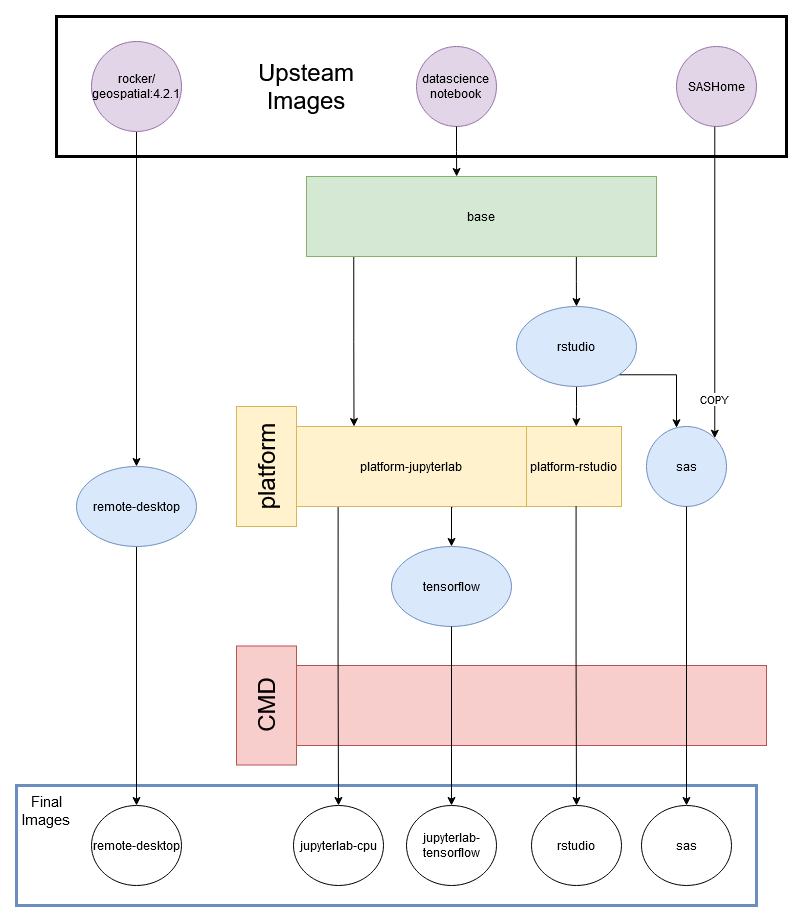
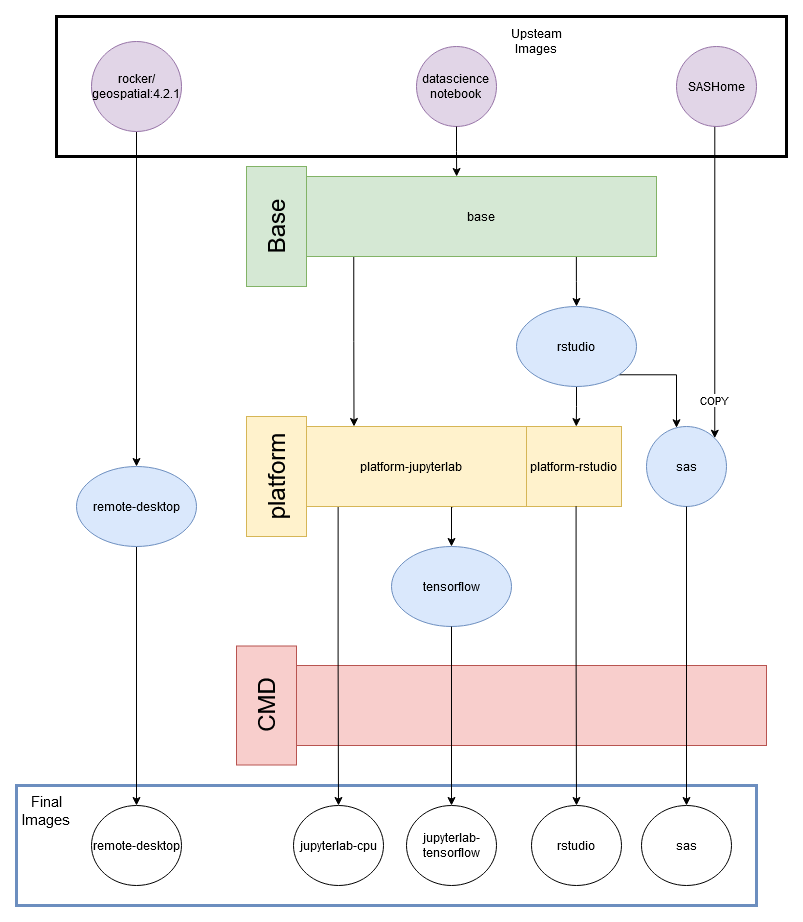
Staged builds 5 pr comments (#736)
* fix typo

* test nightly as a matrix

* adds checking the SHA to trivy

* Feat: add matrix for docker-nightly

* feat: updated diagrams

It was requested to make base match platform and cmd

* fix: trivy version

new curls need the v removed

* update nightly

* remove pytorch image folder

* test nightly as a matrix

* Feat: add matrix for docker-nightly

* nightly doesn't use dev

* isn't an separate image anymore

* update readme for matrix

diff --git a/README.md b/README.md
@@ -15,7 +15,7 @@ Container images to be used with kubeflow on the AAW platform for Data Science &
 - [General Development Workflow](#general-development-workflow)
   - [Running an AAW Container Locally](#running-an-aaw-container-locally)
   - [Testing Locally](#testing-locally)
-  - [Testing On-Platform testing](#testing-on-platform-testing)
+  - [Testing On-Platform](#testing-on-platform)
   - [Overview of images](#overview-of-images)
   - [Adding new software](#adding-new-software)
   - [Adding new Images](#adding-new-images)
@@ -154,7 +154,7 @@ jupyter/datascience-notebook                       9ed3b8de5de1   9a0c8d86de1a  
    - manually by `docker run -it -p 8888:8888 REPO/IMAGENAME:TAG`,
      then opening it in [http://localhost:8888](http://localhost:8888)
 
-### Testing On-Platform testing
+### Testing On-Platform
 
 GitHub Actions CI is enabled to do building, scanning, automated testing, pushing of our images to ACR.
 
@@ -207,7 +207,8 @@ then following the normal build instructions starting with the Generate Dockerfi
 Be selective with software installation as image sizes are already quite big (16Gb plus),
 and increasing that size would negatively impact the time it takes up for a workspace server to come up
 (as well as first time image pulls to a node).
-In such cases it may be more relevant to make an image under [aaw-contrib-containers](https://github.com/StatCan/aaw-contrib-containers) as mentioned earlier.
+In such cases it may be more relevant to make an image under
+[aaw-contrib-containers](https://github.com/StatCan/aaw-contrib-containers) as mentioned earlier.
 
 ### Adding new Images
 
@@ -225,7 +226,8 @@ See below for a description of all the fields.
 4. If this stage was inserted between two existing stages,
 update the parent values of any children of this stage
 5. If this stage creates an image that will be deployed to users.
-A job must be added to test the image in `./github/workflows/docker.yaml` and `./github/workflows/docker-nightly.yaml`
+A job must be added to test the image in `./github/workflows/docker.yaml`,
+and the image name must be added to the matrix in `./github/workflows/docker-nightly.yaml`
 See below for a description of all the fields
 6. Update the documentation for the new stage.
 This is generally updating `images-stages.png` and `image-stages.drawio` in the `docs/images` folder using draw.io.
@@ -324,7 +326,12 @@ so updates to the tag are not needed.
 
 The `v1` tag is intended for when we encounter a breaking change,
 but still want to support the features of that current image.
-A new `v2` tag will be created for adding these breaking changes.
+
+The `v2` tag is currently used by [zone-kubeflow-containers](https://github.com/StatCan/zone-kubeflow-containers)
+
+**Note**:
+The `latest` tag is shared with [zone-kubeflow-containers](https://github.com/StatCan/zone-kubeflow-containers),
+So isn't reliable
 
 ### Set User File Permissions
 
